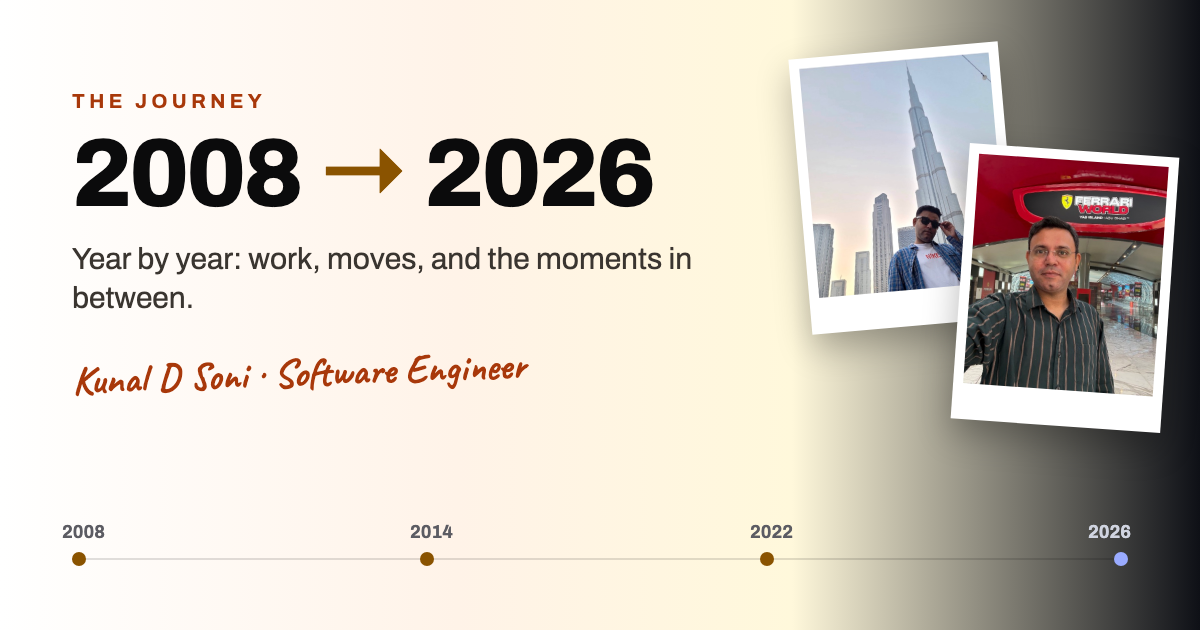
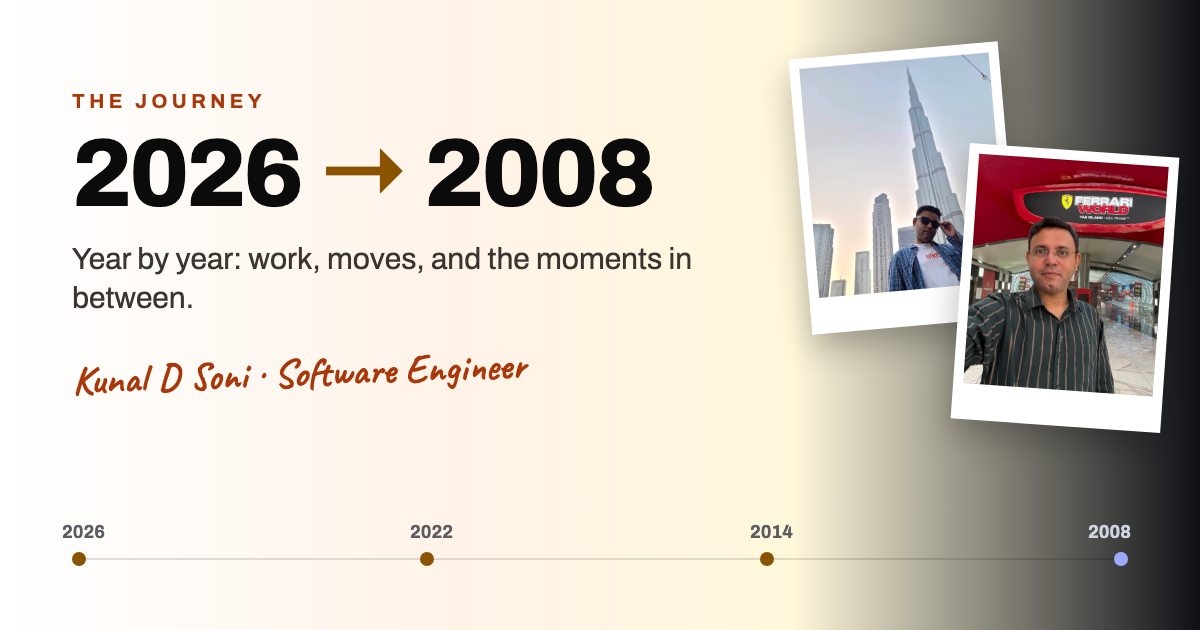
Home: journey newest first (2026 -> 2008), year bar and share image reversed

Changed region(s): [[0.4317, 0.2413, 0.555, 0.3317], [0.1542, 0.2413, 0.2467, 0.3317]]

diff --git a/index.html b/index.html
@@ -4,7 +4,7 @@
 <meta charset="utf-8">
 <meta name="viewport" content="width=device-width,initial-scale=1">
 <title>Kunal D Soni - Software Engineer</title>
-<meta name="description" content="Kunal D Soni - software engineer. The journey from 2008 to 2026, year by year: work, moves, and the moments in between.">
+<meta name="description" content="Kunal D Soni - software engineer. The journey from 2026 back to 2008, year by year: work, moves, and the moments in between.">
 <link rel="canonical" href="https://kunaldsoni.github.io/">
 <meta name="author" content="Kunal D Soni">
 <meta name="theme-color" content="#0b48f0">
@@ -14,7 +14,7 @@
 <meta property="og:type" content="website">
 <meta property="og:site_name" content="Kunal D Soni">
 <meta property="og:title" content="Kunal D Soni - Software Engineer">
-<meta property="og:description" content="Kunal D Soni - software engineer. The journey from 2008 to 2026, year by year: work, moves, and the moments in between.">
+<meta property="og:description" content="Kunal D Soni - software engineer. The journey from 2026 back to 2008, year by year: work, moves, and the moments in between.">
 <meta property="og:url" content="https://kunaldsoni.github.io/">
 <meta property="og:image" content="https://kunaldsoni.github.io/og-image.png">
 <meta property="og:image:width" content="1200">
@@ -22,7 +22,7 @@
 <meta property="og:image:alt" content="Kunal D Soni - Software Engineer">
 <meta name="twitter:card" content="summary_large_image">
 <meta name="twitter:title" content="Kunal D Soni - Software Engineer">
-<meta name="twitter:description" content="Kunal D Soni - software engineer. The journey from 2008 to 2026, year by year: work, moves, and the moments in between.">
+<meta name="twitter:description" content="Kunal D Soni - software engineer. The journey from 2026 back to 2008, year by year: work, moves, and the moments in between.">
 <meta name="twitter:image" content="https://kunaldsoni.github.io/og-image.png">
 <link rel="preconnect" href="https://fonts.googleapis.com">
 <link rel="preconnect" href="https://fonts.gstatic.com" crossorigin>
@@ -99,103 +99,47 @@
 <main id="main">
 <section class="journey-head">
   <p class="eyebrow dark">The journey</p>
-  <h1 class="visually-hidden">The journey, 2008 to 2026</h1>
+  <h1 class="visually-hidden">The journey, 2026 to 2008</h1>
 </section>
 
-<nav class="yearbar" id="yearbar" aria-label="Jump to a year"><a href="#y2008">2008</a><a href="#y2009">2009</a><a href="#y2010">2010</a><a href="#y2011">2011</a><a href="#y2012">2012</a><a href="#y2013">2013</a><a href="#y2014">2014</a><a href="#y2015">2015</a><a href="#y2016">2016</a><a href="#y2017">2017</a><a href="#y2018">2018</a><a href="#y2019">2019</a><a href="#y2020">2020</a><a href="#y2021">2021</a><a href="#y2022">2022</a><a href="#y2023">2023</a><a href="#y2024">2024</a><a href="#y2025">2025</a><a href="#y2026">2026</a></nav>
+<nav class="yearbar" id="yearbar" aria-label="Jump to a year"><a href="#y2026">2026</a><a href="#y2025">2025</a><a href="#y2024">2024</a><a href="#y2023">2023</a><a href="#y2022">2022</a><a href="#y2021">2021</a><a href="#y2020">2020</a><a href="#y2019">2019</a><a href="#y2018">2018</a><a href="#y2017">2017</a><a href="#y2016">2016</a><a href="#y2015">2015</a><a href="#y2014">2014</a><a href="#y2013">2013</a><a href="#y2012">2012</a><a href="#y2011">2011</a><a href="#y2010">2010</a><a href="#y2009">2009</a><a href="#y2008">2008</a></nav>
 
 <section class="journey">
   <!-- HOW TO EDIT: each year is an <article class="year">. Replace "Story coming soon." with your text and
        remove "year--empty" from its class. To add a photo, copy any <figure class="life-photo"> block from life.html
        into <div class="year__body">, add the class "year__photo" to it, and change the image path, alt text and caption. -->
   <header class="chapter">
-    <p class="chapter__span">2008 – 2013</p>
-    <h2 class="chapter__name">Beginnings</h2>
+    <p class="chapter__span">2026 – 2022</p>
+    <h2 class="chapter__name">Abu Dhabi</h2>
   </header>
-  <article class="year year--empty" id="y2008">
-    <h3 class="year__num">2008</h3>
+  <article class="year year--empty" id="y2026">
+    <h3 class="year__num">2026</h3>
     <div class="year__body">
       <p class="year__text">Story coming soon.</p>
     </div>
   </article>
-  <article class="year year--empty" id="y2009">
-    <h3 class="year__num">2009</h3>
+  <article class="year" id="y2025">
+    <h3 class="year__num">2025</h3>
+    <div class="year__body">
+      <p class="year__text">Joined Astratech (BOTIM Ultra) in Abu Dhabi - remittance and digital payments.</p>
+    </div>
+  </article>
+  <article class="year year--empty" id="y2024">
+    <h3 class="year__num">2024</h3>
     <div class="year__body">
       <p class="year__text">Story coming soon.</p>
     </div>
   </article>
-  <article class="year year--empty" id="y2010">
-    <h3 class="year__num">2010</h3>
+  <article class="year year--empty" id="y2023">
+    <h3 class="year__num">2023</h3>
     <div class="year__body">
       <p class="year__text">Story coming soon.</p>
     </div>
   </article>
-  <article class="year year--empty" id="y2011">
-    <h3 class="year__num">2011</h3>
+  <article class="year" id="y2022">
+    <h3 class="year__num">2022</h3>
     <div class="year__body">
-      <p class="year__text">Story coming soon.</p>
-    </div>
-  </article>
-  <article class="year year--empty" id="y2012">
-    <h3 class="year__num">2012</h3>
-    <div class="year__body">
-      <p class="year__text">Story coming soon.</p>
-    </div>
-  </article>
-  <article class="year year--empty" id="y2013">
-    <h3 class="year__num">2013</h3>
-    <div class="year__body">
-      <p class="year__text">Story coming soon.</p>
-    </div>
-  </article>
-  <header class="chapter">
-    <p class="chapter__span">2014 – 2018</p>
-    <h2 class="chapter__name">Ahmedabad, learning to ship</h2>
-  </header>
-  <article class="year" id="y2014">
-    <h3 class="year__num">2014</h3>
-    <div class="year__body">
-      <p class="year__text">Started at Pedagogy in Ahmedabad - QA and release engineering.</p>
-    </div>
-  </article>
-  <article class="year year--empty" id="y2015">
-    <h3 class="year__num">2015</h3>
-    <div class="year__body">
-      <p class="year__text">Story coming soon.</p>
-    </div>
-  </article>
-  <article class="year year--empty" id="y2016">
-    <h3 class="year__num">2016</h3>
-    <div class="year__body">
-      <p class="year__text">Story coming soon.</p>
-    </div>
-  </article>
-  <article class="year year--empty" id="y2017">
-    <h3 class="year__num">2017</h3>
-    <div class="year__body">
-      <p class="year__text">Story coming soon.</p>
-    </div>
-  </article>
-  <article class="year year--empty" id="y2018">
-    <h3 class="year__num">2018</h3>
-    <div class="year__body">
-      <p class="year__text">Story coming soon.</p>
-    </div>
-  </article>
-  <header class="chapter">
-    <p class="chapter__span">2019 – 2020</p>
-    <h2 class="chapter__name">Building for the US</h2>
-  </header>
-  <article class="year" id="y2019">
-    <h3 class="year__num">2019</h3>
-    <div class="year__body">
-      <p class="year__text">Joined Novo, a US digital bank for small businesses - payments and automation.</p>
-    </div>
-  </article>
-  <article class="year year--empty" id="y2020">
-    <h3 class="year__num">2020</h3>
-    <div class="year__body">
-      <p class="year__text">Story coming soon.</p>
+      <p class="year__text">Moved to Abu Dhabi as Product Manager at Dopay - payroll and cards for MENA's cash-paid workforce.</p>
     </div>
   </article>
   <header class="chapter">
@@ -209,35 +153,91 @@
     </div>
   </article>
   <header class="chapter">
-    <p class="chapter__span">2022 – 2026</p>
-    <h2 class="chapter__name">Abu Dhabi</h2>
+    <p class="chapter__span">2020 – 2019</p>
+    <h2 class="chapter__name">Building for the US</h2>
   </header>
-  <article class="year" id="y2022">
-    <h3 class="year__num">2022</h3>
-    <div class="year__body">
-      <p class="year__text">Moved to Abu Dhabi as Product Manager at Dopay - payroll and cards for MENA's cash-paid workforce.</p>
-    </div>
-  </article>
-  <article class="year year--empty" id="y2023">
-    <h3 class="year__num">2023</h3>
+  <article class="year year--empty" id="y2020">
+    <h3 class="year__num">2020</h3>
     <div class="year__body">
       <p class="year__text">Story coming soon.</p>
     </div>
   </article>
-  <article class="year year--empty" id="y2024">
-    <h3 class="year__num">2024</h3>
+  <article class="year" id="y2019">
+    <h3 class="year__num">2019</h3>
+    <div class="year__body">
+      <p class="year__text">Joined Novo, a US digital bank for small businesses - payments and automation.</p>
+    </div>
+  </article>
+  <header class="chapter">
+    <p class="chapter__span">2018 – 2014</p>
+    <h2 class="chapter__name">Ahmedabad, learning to ship</h2>
+  </header>
+  <article class="year year--empty" id="y2018">
+    <h3 class="year__num">2018</h3>
     <div class="year__body">
       <p class="year__text">Story coming soon.</p>
     </div>
   </article>
-  <article class="year" id="y2025">
-    <h3 class="year__num">2025</h3>
+  <article class="year year--empty" id="y2017">
+    <h3 class="year__num">2017</h3>
     <div class="year__body">
-      <p class="year__text">Joined Astratech (BOTIM Ultra) in Abu Dhabi - remittance and digital payments.</p>
+      <p class="year__text">Story coming soon.</p>
     </div>
   </article>
-  <article class="year year--empty" id="y2026">
-    <h3 class="year__num">2026</h3>
+  <article class="year year--empty" id="y2016">
+    <h3 class="year__num">2016</h3>
+    <div class="year__body">
+      <p class="year__text">Story coming soon.</p>
+    </div>
+  </article>
+  <article class="year year--empty" id="y2015">
+    <h3 class="year__num">2015</h3>
+    <div class="year__body">
+      <p class="year__text">Story coming soon.</p>
+    </div>
+  </article>
+  <article class="year" id="y2014">
+    <h3 class="year__num">2014</h3>
+    <div class="year__body">
+      <p class="year__text">Started at Pedagogy in Ahmedabad - QA and release engineering.</p>
+    </div>
+  </article>
+  <header class="chapter">
+    <p class="chapter__span">2013 – 2008</p>
+    <h2 class="chapter__name">Beginnings</h2>
+  </header>
+  <article class="year year--empty" id="y2013">
+    <h3 class="year__num">2013</h3>
+    <div class="year__body">
+      <p class="year__text">Story coming soon.</p>
+    </div>
+  </article>
+  <article class="year year--empty" id="y2012">
+    <h3 class="year__num">2012</h3>
+    <div class="year__body">
+      <p class="year__text">Story coming soon.</p>
+    </div>
+  </article>
+  <article class="year year--empty" id="y2011">
+    <h3 class="year__num">2011</h3>
+    <div class="year__body">
+      <p class="year__text">Story coming soon.</p>
+    </div>
+  </article>
+  <article class="year year--empty" id="y2010">
+    <h3 class="year__num">2010</h3>
+    <div class="year__body">
+      <p class="year__text">Story coming soon.</p>
+    </div>
+  </article>
+  <article class="year year--empty" id="y2009">
+    <h3 class="year__num">2009</h3>
+    <div class="year__body">
+      <p class="year__text">Story coming soon.</p>
+    </div>
+  </article>
+  <article class="year year--empty" id="y2008">
+    <h3 class="year__num">2008</h3>
     <div class="year__body">
       <p class="year__text">Story coming soon.</p>
     </div>

diff --git a/README.md b/README.md
@@ -8,7 +8,7 @@ Personal site of Kunal D Soni - a software engineer. Life first (travel, food, b
 
 | File | Page |
 | --- | --- |
-| `index.html` | Home: year-by-year journey 2008-2026 in chapters (edit each `<article class="year">`; remove `year--empty` once a year has a story) |
+| `index.html` | Home: year-by-year journey 2026 back to 2008 (newest first) in chapters (edit each `<article class="year">`; remove `year--empty` once a year has a story) |
 | `work.html` | Companies (Astratech/BOTIM, Dopay, Mintoak, Novo, Pedagogy) and products built at each |
 | `case-botim.html`, `case-dopay.html`, `case-novo.html` | Case studies: problem → decisions → trade-offs → result |
 | `impact.html` | Results and advisory |
